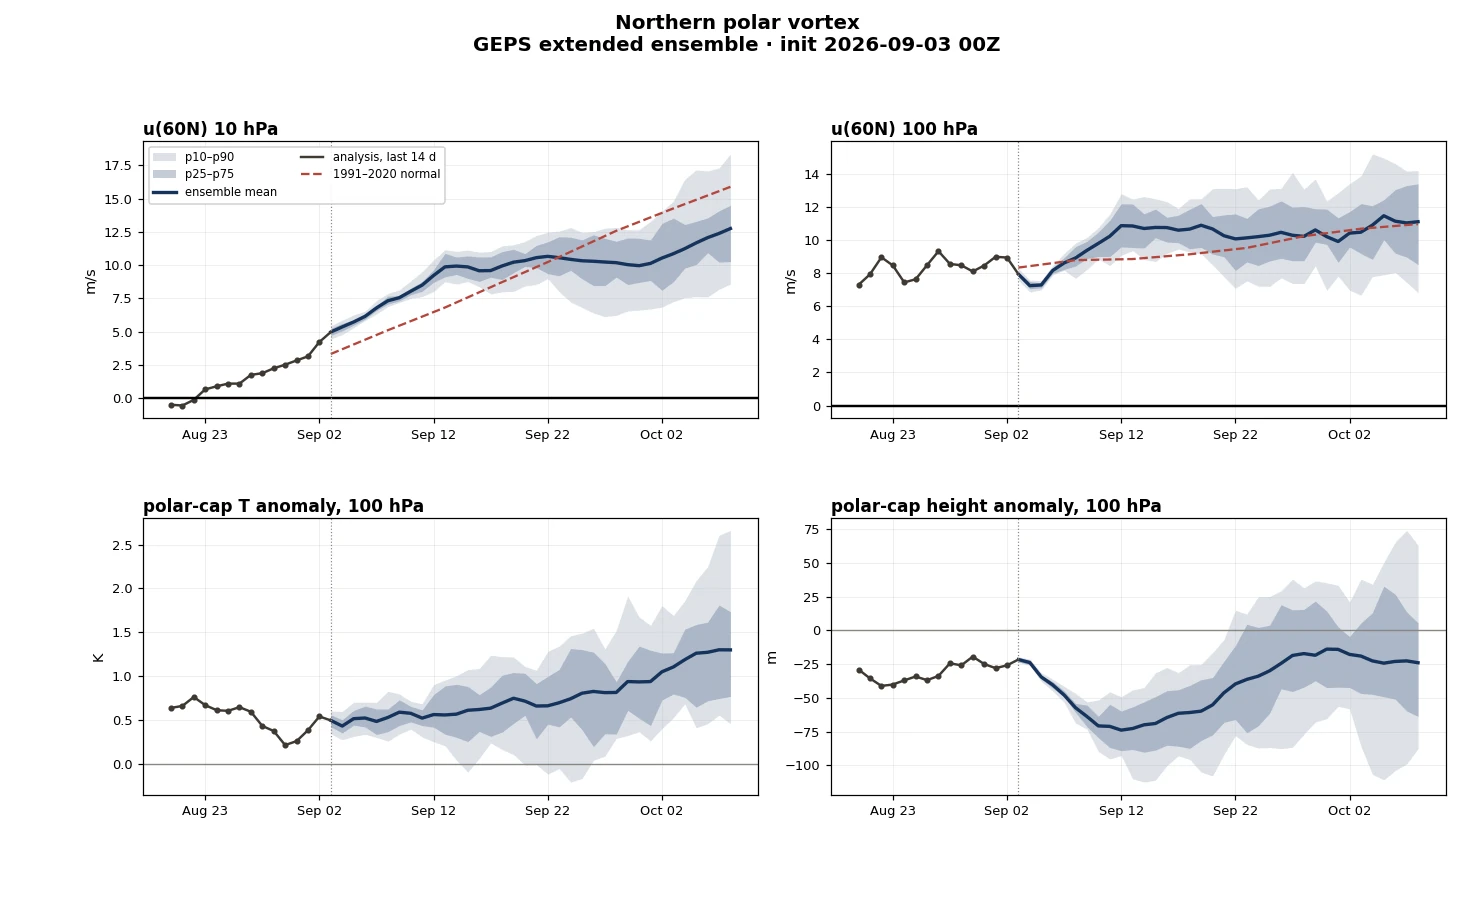
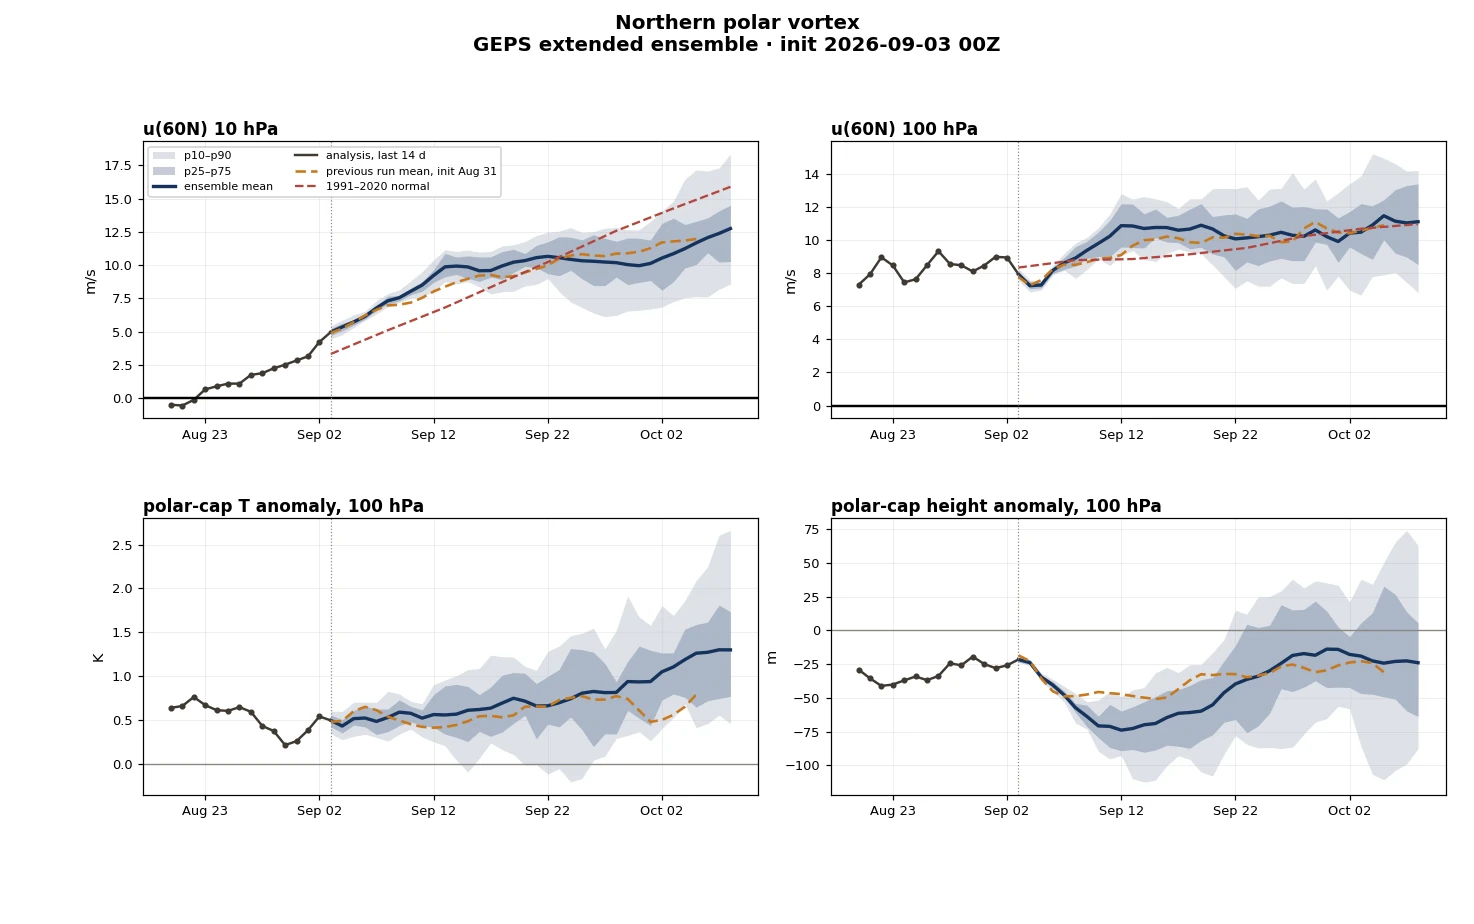
subseasonal: change-vs-previous-run panels, previous run on the vortex series, teleconnection indices from all 21 members with hindcast-calibrated weekly probabilities
Claude-Session: https://claude.ai/code/session_01XebqmvNTY58jDPzWVXJLUq

diff --git a/subseasonal.html b/subseasonal.html
@@ -4,7 +4,7 @@
 <meta charset="UTF-8">
 <meta name="viewport" content="width=device-width, initial-scale=1.0">
 <title>Subseasonal Outlook &mdash; GEPS Weeks 1&ndash;5 for the Americas, with MJO Tracking</title>
-<meta name="description" content="Days 1-35 anomaly forecasts for North and South America from the ECCC GEPS extended ensemble, taken against a purpose-built 2001-2020 GEPS hindcast climatology at matching lead so model drift is removed. Daily animations and weekly means for eight fields, plus a full three-field Wheeler-Hendon RMM phase diagram and a tropical convection Hovmoller.">
+<meta name="description" content="Days 1-35 anomaly forecasts for North and South America from the ECCC GEPS extended ensemble, taken against a purpose-built 2001-2020 GEPS hindcast climatology at matching lead so model drift is removed. Daily animations and weekly means for eight fields, plus run-over-run change panels, a full three-field Wheeler-Hendon RMM phase diagram, a tropical convection Hovmoller, polar-vortex diagnostics and probabilistic teleconnection indices (AO, NAO, PNA, AAO and the CPC set) from all 21 members.">
 <link rel="canonical" href="https://scorvec.com/subseasonal.html">
 <meta property="og:type" content="website">
 <meta property="og:title" content="Subseasonal Outlook &mdash; GEPS Weeks 1&ndash;5 for the Americas">
@@ -97,6 +97,13 @@
   }
   .chart-card-header p { font-size: 0.85rem; color: var(--muted); line-height: 1.7; max-width: 62rem; }
   .chart-card-header p + p { margin-top: 0.7rem; }
+  table.tele { width: 100%; border-collapse: collapse; margin: 0.9rem 0 0.3rem; font-size: 0.78rem; }
+  table.tele th, table.tele td { padding: 0.35rem 0.4rem; text-align: center; border-bottom: 1px solid var(--rule); }
+  table.tele thead th { font-weight: 600; color: var(--ink); }
+  table.tele tbody th { text-align: left; font-weight: 600; white-space: nowrap; }
+  table.tele th span, table.tele td span { display: block; font-weight: 400; font-size: 0.7rem; color: var(--muted); }
+  table.tele td i { font-style: normal; color: #4a4640; }
+  table.tele td.r { color: var(--muted); font-size: 0.72rem; white-space: nowrap; }
   .chart-card-header b { color: var(--ink); font-weight: 500; }
 
   .img-wrap { padding: 1rem 1.2rem; background: #fff; }
@@ -231,6 +238,7 @@
     <div class="stage">
       <div id="stage"></div>
       <p class="cap" id="cap"></p>
+      <div id="tele-table" hidden></div>
     </div>
   </div>
 
@@ -325,8 +333,60 @@
     &mdash; 1991-06-30, where the polar-cap height collapses to 0.80&nbsp;m &mdash; now
     screened out; removing it also moved MERRA-2&rsquo;s own height trend from +18.7 to
     +18.1&nbsp;m/decade, against +18.9 measured independently from ERA5.</p>
-    <p><b>Caveats.</b> This is an ensemble mean, so it understates the range of outcomes
-    everywhere and increasingly so with lead; nothing here is a probability. Twenty-one
+    <p><b>Change vs previous run.</b> Extended cycles are Monday and Thursday, so the
+    previous run started 3 or 4 days earlier and its forecast for any given calendar day sits
+    at a longer lead. The change panels align the two on the <i>valid date</i> and difference
+    them only where both exist &mdash; days 1&ndash;32 or 1&ndash;31 of the current run &mdash; so
+    week 5 is a partial mean and is labelled with the number of common days. Nothing is drawn
+    where only one run has a forecast: zero-padding a partial week would read as &ldquo;no
+    change&rdquo; where the truth is &ldquo;no comparison&rdquo;. The vortex and teleconnection
+    plots carry the previous run&rsquo;s ensemble mean as a dashed line on the same rule.</p>
+    <p><b>Teleconnections, member by member.</b> The map anomalies are ensemble means;
+    the teleconnection section is the one place on this page built from all 21 members, so
+    that phase can be stated as a probability. The indices are a reproduction of CPC&rsquo;s,
+    on the reanalysis CPC defines them on (NCEP/NCAR R1, 2.5&deg;), and the reproduction is
+    <i>measured</i> rather than assumed. The AO and AAO are the leading EOF of monthly
+    sea-level pressure poleward of 20&deg; (Thompson &amp; Wallace 1998), signed so the
+    positive phase has low pressure over the pole; projected day by day they track CPC&rsquo;s
+    daily AO and AAO at r&nbsp;0.97 and 0.96. The 500&nbsp;hPa patterns (NAO, PNA, EA, WP, EP/NP,
+    EA/WR, SCA, TNH, POL) are defined by regression: for each pattern and each calendar month, the
+    map of monthly height anomalies 20&ndash;90&deg;N &mdash; standardized by calendar month and
+    weighted by &radic;cos&nbsp;&phi;, as in Barnston &amp; Livezey (1987) &mdash; regressed on
+    CPC&rsquo;s published monthly index over the months within one of that calendar month, and
+    the nine maps of a month combined into a least-squares projector so each index is read with
+    the others accounted for. Month-by-month matters: CPC derives its modes separately for every
+    calendar month and the PNA in particular changes shape with season, so a single all-year
+    rotated PCA reproduced CPC&rsquo;s PNA at only r&nbsp;0.54, the seasonal regression at 0.74.
+    Fidelity is scored <b>out of sample</b> &mdash; patterns fitted on 1991&ndash;2005, scored on
+    2006&ndash;2020 against CPC&rsquo;s monthly indices for every pattern and against its daily
+    NAO and PNA &mdash; and those are the correlations in the table; the operational projector is
+    then refitted on all thirty years. A daily index is the daily anomaly projected the same way
+    and divided by the 1991&ndash;2020 standard deviation of the daily projection, which is how
+    CPC computes its daily AO, NAO and PNA. Each GEPS member&rsquo;s de-drifted, re-based
+    500&nbsp;hPa and sea-level-pressure anomaly &mdash; the same anomaly the maps show &mdash; is
+    projected identically, so the forecast index carries no model drift; the tail is GEPS&rsquo;s
+    own day-0 analyses of the last weeks, anomalised the same way (against the model climatology at
+    lead 0.5 and re-based), so analysis and forecast sit on one rule &mdash; against the NCEP
+    climatology instead, the GEPS-versus-R1 height offset projected onto the monopole-like patterns
+    as a spurious step at the seam. CPC&rsquo;s own published daily values are drawn beside the
+    tail. Raw probabilities are member fractions, so they resolve to about 5% and 0% means
+    &ldquo;no member&rdquo;, not certainty.</p>
+    <p><b>Calibrated on the hindcast.</b> The same projectors are applied to every GEPS8 hindcast
+    start of 2001&ndash;2020 &mdash; four a week, 39 daily leads, de-drifted and re-based exactly
+    as the live product &mdash; and scored against the observed index on the valid date from
+    NCEP/NCAR R1. For each index and week, the starts within &plusmn;45 days of the current init
+    day-of-year (about a thousand) give the anomaly correlation of the hindcast ensemble mean
+    (the <b>skill</b> quoted in the table) and a regression of the observed weekly index on the
+    forecast one; today&rsquo;s ensemble-mean weekly index passed through that regression, with the
+    residual spread as the distribution, is the <b>calibrated probability</b>. Where the model has
+    no skill the regression slope goes to zero and the calibrated probability collapses to
+    climatology, which is the honest statement for a week-5 NAO; where it has skill but too little
+    amplitude, the slope restores it. The hindcast mean is four members against 21 live, so the
+    slope is slightly conservative. A weekly mean of a daily-sd index is a smoother quantity than
+    the daily values, so a weekly mean beyond &plusmn;1 is a strong signal.</p>
+    <p><b>Caveats.</b> The maps are an ensemble mean, so they understate the range of outcomes
+    everywhere and increasingly so with lead; outside the teleconnection section nothing here
+    is a probability. Twenty-one
     members is also not many for precipitation: a single member differs from the member
     mean by about the field's own magnitude, so roughly a fifth of single-member variance
     survives into the mean and shows up as coherent-looking blobs at long lead. Those are
@@ -362,6 +422,19 @@ var P = {
         b: {label:"Field", items: FIELDS},
         img: function (a,b) { return "assets/geps/geps_" + a + "_" + b + "_weekly.webp"; },
         cap: function () { return "Five seven-day means, anomaly vs the lead-matched GEPS hindcast."; }},
+  change: {label: "Change vs previous run, weeks 1\u20135", fit: false,
+        a: {label:"Domain", items:[["na","North America"],["sa","South America"],
+                                   ["glb","Global (Mercator)"]]},
+        b: {label:"Field", items: FIELDS},
+        img: function (a,b) { return "assets/geps/geps_" + a + "_" + b + "_change.webp"; },
+        cap: function () { return "This run minus the previous extended run (3\u20134 days earlier), weekly means over the valid days both forecast. Week 5 is a partial week and says so."; }},
+  telecon: {label: "Teleconnections \u2014 AO, NAO, PNA, AAO \u2026", fit: false,
+        a: {label:"View", items:[["series","Index plumes"],["probs","Weekly probabilities"],["patterns","Loading patterns"]]},
+        img: function (a) { return "assets/geps/geps_telecon_" + a + ".webp"; },
+        cap: function (a) { return a==="series"
+          ? "Every member projected on CPC-style loading patterns; the tail is GEPS\u2019s own day-0 analyses on the same projection, CPC\u2019s published index as crosses, previous run dashed. Units: standard deviations of the daily index."
+          : (a==="probs" ? "Upper bar: member fractions of the weekly-mean index at or beyond \u00B10.5 sd. Thin lower bar: the same probabilities calibrated on 20 years of GEPS8 hindcasts, with the hindcast skill (anomaly correlation) for that index and week."
+                         : "Regression of the monthly field on each index (m or hPa per +1 sd), NCEP/NCAR R1 1991\u20132020, with the correlation of this reproduction against CPC\u2019s own index."); }},
   daily: {label: "Daily animation",
         a: {label:"Domain", items:[["na","North America"],["sa","South America"],
                                    ["glb","Global (Mercator)"]]},
@@ -372,7 +445,7 @@ var P = {
   vortex: {label: "Polar vortex \u2014 diagnostics",
         a: {label:"Hemisphere", items:[["nh","Northern"],["sh","Southern"]]},
         img: function (a) { return "assets/geps/strat_" + a + "_series.webp"; },
-        cap: function () { return "u(60\u00B0) at 10 and 100 hPa, polar-cap T and height. Ensemble spread, 14-day analysis tail."; }},
+        cap: function () { return "u(60\u00B0) at 10 and 100 hPa, polar-cap T and height. Ensemble spread, 14-day analysis tail, previous run\u2019s mean dashed on the common days."; }},
   vloop: {label: "Polar vortex \u2014 daily loop",
         a: {label:"", items:[["all","10 and 100 hPa"]]},
         frame: function () { return "sst_anim.html?base=assets/geps/anim&manifest=geps_strat_manifest.json&embed=1"; },
@@ -428,9 +501,51 @@ function render() {
     st.innerHTML = '<img src="' + p.img(sel.a, sel.b) + '" alt="' + p.label + '">';
   }
   $("cap").textContent = p.cap(sel.a, sel.b);
+  teleTable(sel.p === "telecon");
   var im = $("stage").querySelector("img");
   if (im) { im.onload = fitStage; }
   fitStage();
+}
+
+// The numbers behind the teleconnection figures: one row per index, one cell
+// per week with P(<= -0.5) / P(>= +0.5), the weekly mean and its change since
+// the previous run. Rendered from telecon.json so it never drifts from the plots.
+var TELE = null;
+function teleTable(show) {
+  var host = $("tele-table");
+  host.hidden = !show;
+  if (!show) return;
+  if (TELE === null) {
+    TELE = false;
+    fetch("assets/geps/telecon.json").then(function (r) { return r.json(); })
+      .then(function (j) { TELE = j; teleTable(sel.p === "telecon"); })
+      .catch(function () { host.innerHTML = ""; });
+    return;
+  }
+  if (!TELE) return;
+  var ids = Object.keys(TELE.indices);
+  var wk = TELE.indices[ids[0]].weeks;
+  var h = '<table class="tele"><thead><tr><th>index</th>';
+  wk.forEach(function (w) {
+    h += "<th>week " + w.week + "<span>" + w.d0.slice(5).replace("-", "/") + " \u2013 " + w.d1.slice(5).replace("-", "/") + (w.ndays < 7 ? " (" + w.ndays + " d)" : "") + "</span></th>";
+  });
+  h += "<th>vs CPC<span>out of sample</span></th></tr></thead><tbody>";
+  ids.forEach(function (id) {
+    var x = TELE.indices[id];
+    h += "<tr><th>" + id.toUpperCase() + "<span>" + x.name + "</span></th>";
+    x.weeks.forEach(function (w) {
+      var tilt = w.p_pos - w.p_neg;
+      var bg = tilt > 0 ? "rgba(180,69,60," + (0.08 + 0.55 * tilt) + ")"
+                        : "rgba(44,95,168," + (0.08 - 0.55 * tilt) + ")";
+      var d = ("prev_mean" in w) ? " <i>\u0394" + (w.mean - w.prev_mean >= 0 ? "+" : "") + (w.mean - w.prev_mean).toFixed(1) + "</i>" : "";
+      var cal = ("skill_r" in w) ? "<span>cal " + Math.round(w.cal_p_neg * 100) + "% / " + Math.round(w.cal_p_pos * 100) + "% \u00B7 skill r " + w.skill_r.toFixed(2) + "</span>" : "";
+      h += '<td style="background:' + bg + '"><b>' + Math.round(w.p_neg * 100) + "% / " + Math.round(w.p_pos * 100) + "%</b><span>mean " + (w.mean >= 0 ? "+" : "") + w.mean.toFixed(1) + d + "</span>" + cal + "</td>";
+    });
+    var r = x.r_daily != null ? "r " + x.r_daily.toFixed(2) + " daily" : (x.r_monthly != null ? "r " + x.r_monthly.toFixed(2) + " monthly" : "\u2014");
+    h += "<td class=\"r\">" + r + "</td></tr>";
+  });
+  h += "</tbody></table><p class=\"cap\">P(weekly mean \u2264 \u2212" + TELE.threshold + " sd) / P(\u2265 +" + TELE.threshold + " sd) over " + TELE.n_members + " members; cells tilt red toward the positive phase, blue toward the negative. \u0394 is the change in the weekly mean since the " + TELE.prev_cycle.replace(/(\d{4})(\d{2})(\d{2})/, "$1-$2-$3") + " run. \u201Ccal\u201D is the calibrated probability: the observed weekly index regressed on the hindcast ensemble-mean index over 2001\u20132020 starts within \u00B145 days of this date, applied to today\u2019s ensemble mean, with the residual spread; skill r is the anomaly correlation of that hindcast fit, so a cal near 31% / 31% with r near 0 is climatology. r is the correlation of this index reproduction with CPC\u2019s published index, scored out of sample (patterns fitted 1991\u20132005, scored 2006\u20132020; AO/AAO are EOFs with no fit to CPC).</p>";
+  host.innerHTML = h;
 }
 
 (function init() {
